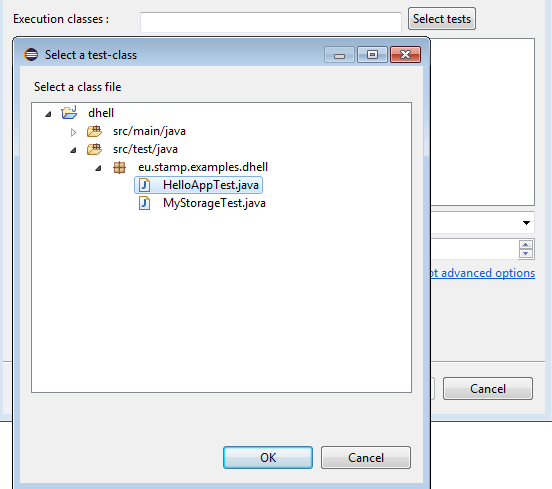
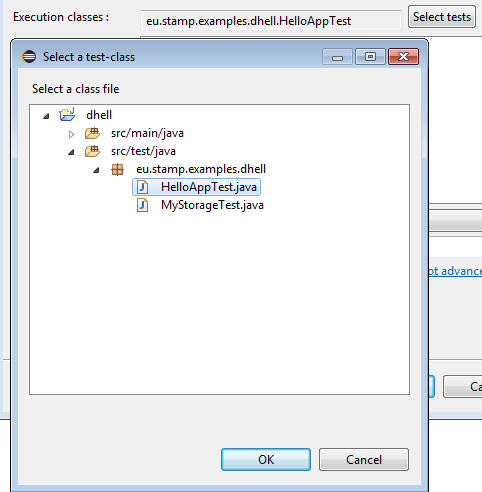
DSpot readme updated

Changed region(s): [[0.0, 0.0, 1.0, 1.0]]

diff --git a/README_DSpot.md b/README_DSpot.md
@@ -33,6 +33,14 @@ after this, select the Dspot parameters in the wizard, when you press finish but
 
 <center>![configuration support](images/loadConfiguration.png)</center>
 
+### DSpot field validation and quick fixers
+
+Some fields of the DSpot wizard includes validation, if the text is wrong or empty a red signal and an error message will be displayed at the wizard page's head
+there will be another signal in the left top corner of the text, clicking right on this signal a quick fix menu will be open if there is a quick fixer for that 
+specific problem, click on it to correct the text.
+
+<center>![Quick fixer](images/DSpotValidation.png)</center>
+
 ### Loading a stored configuration
 
 To load a stored configuration deselect the check button in the "create configuration" row in page one, the "load configuration" combo will be set ennabled,
@@ -79,7 +87,7 @@ it will take more time.
 ### Select the test classes to amplify 
 
 Push the "Select tests" button in page two, a dialog will be opened, select the test classes to use (multiple selection is allowed), 
-you can also write the full names of the tests to use directly in the text box of the same row, separated by : in Mac or Linux and by ; in Windows.
+the text is only read so you have to select the tests in the dialog.
 
 <center>![tests selection](images/tests.png)</center>  
   
